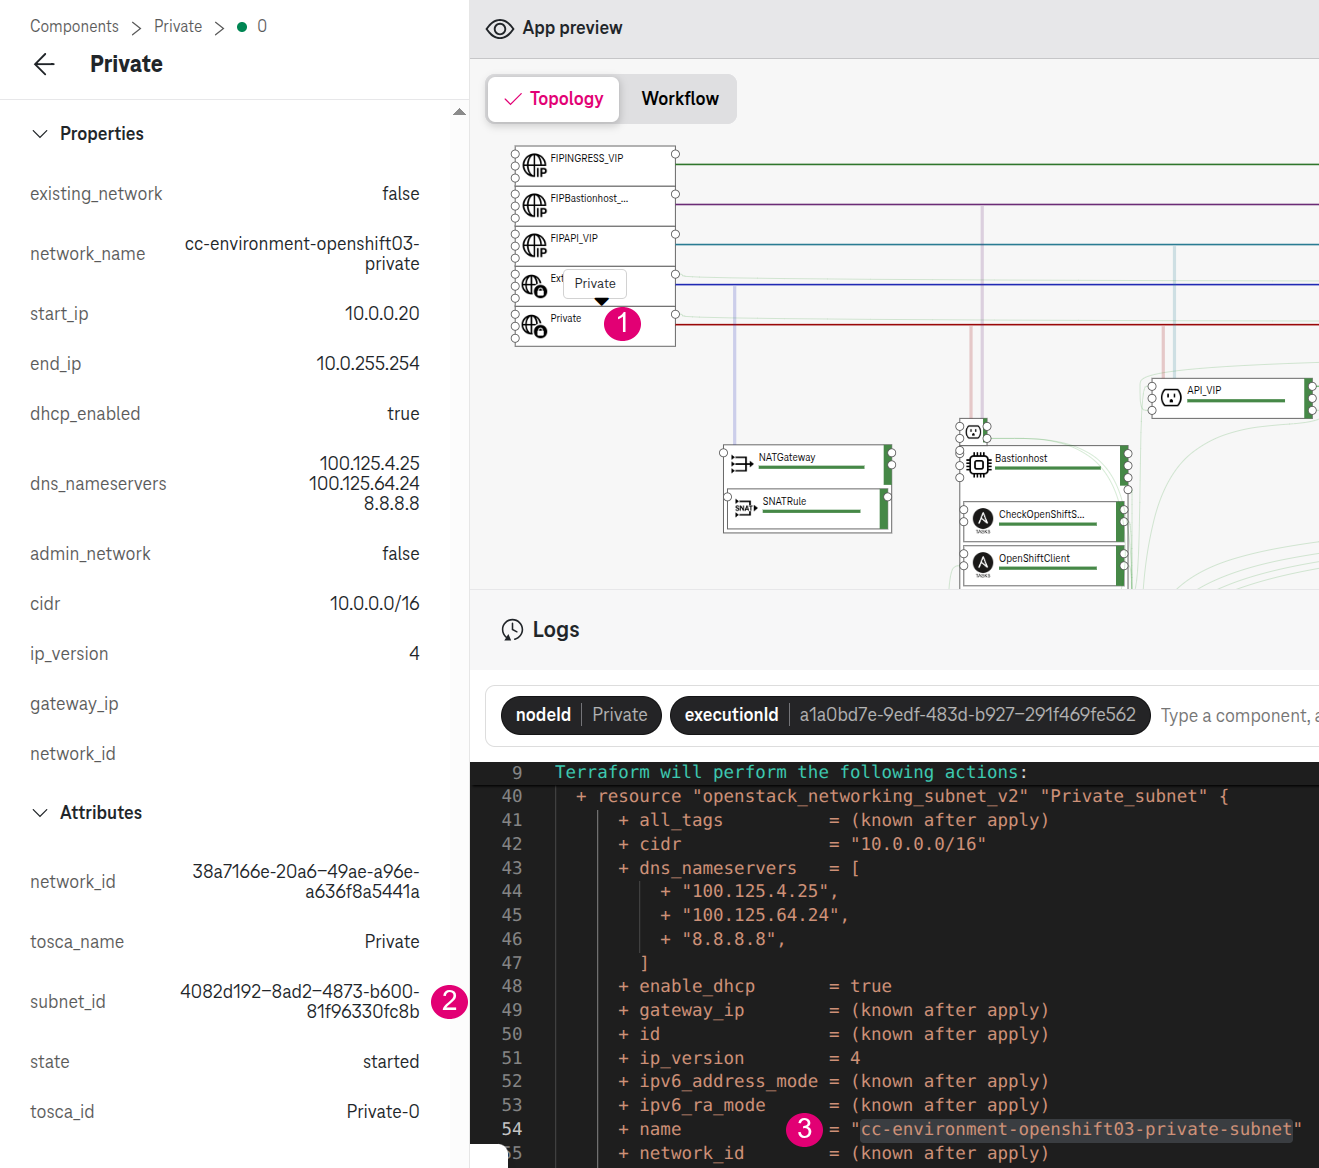
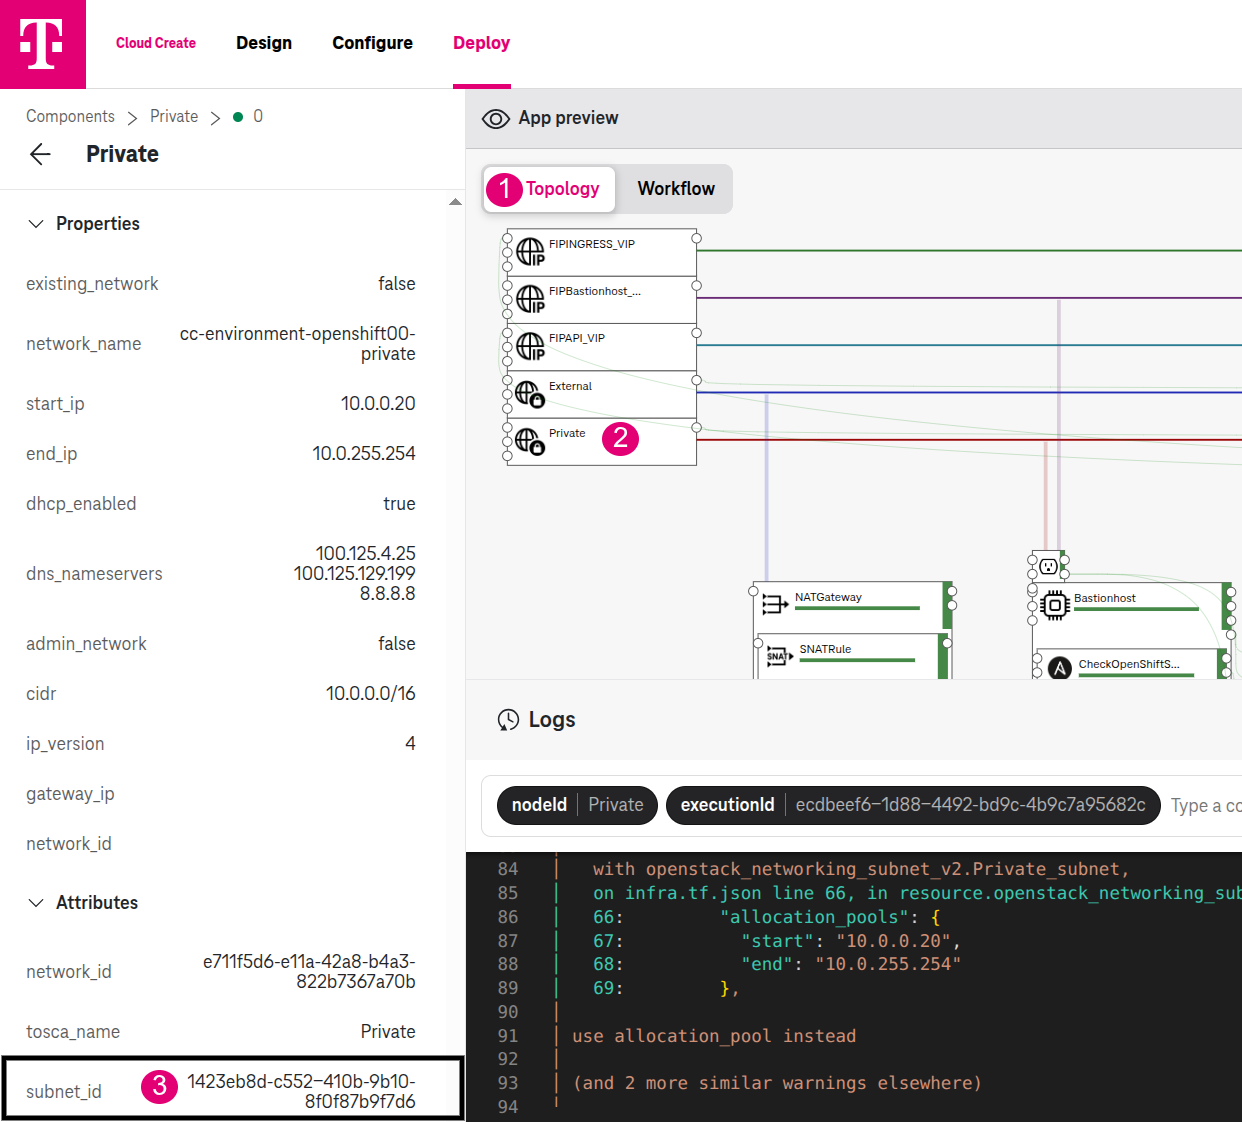
Improve Openshift storage types, machineset, how to update secrets (#57)
Improve Openshift storage types, machineset, how to update secrets

diff --git a/umn/source/service_catalogs/openshift.rst b/umn/source/service_catalogs/openshift.rst
@@ -10,9 +10,9 @@ OpenShift template
 The following tutorial shows you how to register a (trial) subscription key from Red Hat and uses it to create an OpenShift cluster using the OpenShift template.
 
 .. important::
-  * This template deploys a `Self-managed OpenShift Container Platform <https://www.redhat.com/en/technologies/cloud-computing/openshift/container-platform>`_ on Open Telekom Cloud (OTC) with Bring Your Own License (BYOL). It follows the same setup from `the documentation OpenStack User Provisioned Infrastructure <https://docs.redhat.com/en/documentation/openshift_container_platform/4.18/html/installing_on_openstack/installing-openstack-user>`_.
-  * Your license/subscription will cover technical support from Red Hat as well as upgrades between OpenShift versions. `Read more <https://www.redhat.com/en/about/value-of-Red-Hat>`_.
-  * Versions available in the template: :code:`4.16.19` and :code:`4.18.27`. Please contact us if you need a specific version.
+  * This template deploys a `self-managed OpenShift Container Platform <https://www.redhat.com/en/resources/self-managed-openshift-subscription-guide>`_ on Open Telekom Cloud (OTC) with Bring Your Own Subscription (BYOS). OpenShift is installed following the `OpenShift on OpenStack (User-Provisioned Infrastructure) procedure defined by Red Hat <https://docs.redhat.com/en/documentation/openshift_container_platform/4.18/html/installing_on_openstack/installing-openstack-user>`_.
+  * The subscription covers support from Red Hat for the OpenShift product itself (e.g., OpenShift core components, Red Hat Enterprise Linux CoreOS, upgrades/patches within OpenShift) on the `third party infrastructure <https://access.redhat.com/articles/third-party-software-support>`_.
+  * Versions available in the template: :code:`4.16.19` and :code:`4.18.30`. Please contact us if you need a specific version.
 
 2. How to use
 =============
@@ -20,7 +20,7 @@ The following tutorial shows you how to register a (trial) subscription key from
 2.1. How to deploy
 ------------------
 
-1. Create a new application using the template **OpenShift** or **OpenShift HA** with a selected version (e.g., 4.16.19)
+1. Create a new application using the template **OpenShift** or **OpenShift HA** with a selected version (e.g., 4.18.30)
 2. Go to **Quick Deploy**.
 
 .. figure:: /_static/images/service-catalogs/openshift_select_template.png
@@ -34,7 +34,7 @@ The following tutorial shows you how to register a (trial) subscription key from
 a. Specify base_domain
 ^^^^^^^^^^^^^^^^^^^^^^
 
-Specify the **base_domain** (e.g., :code:`tri-test.com`). This is the domain name that you will use to access the OpenShift console after the deployment completes. A DNS Public Zone will be created on OTC with this name. Therefore this domain name **must be unique** in the Domain Name Service of OTC.
+Specify the **base_domain** (e.g., :code:`tri-test.com`). This is the domain name that you will use to access the OpenShift console after the deployment completes. You can specify any domain names you prefer. Your domain name will be registered on the nameservers of OTC. After the deployment completes, you can add the nameservers of OTC on your local machine, then the domain can be resolved (See Section :ref:`access_openshift_console`). Alternatively, you can register a public domain name (e.g., a free domain from ClouDNS) and input it here. In the later case, you do not need to add the nameservers of OTC.
 
 .. figure:: /_static/images/service-catalogs/openshift_config1.png
   :width: 700
@@ -104,6 +104,8 @@ e. (Optional) Specify other paramters
   :width: 700
 
   Figure 7. CheckOpenShiftStatus waits 31 minutes and checks the status
+
+.. _access_openshift_console:
 
 3.1. Access the console
 -----------------------
@@ -189,52 +191,53 @@ During the OpenShift bootstrap process, you can access to the bastion host as fo
 
   # Check all nodes are ready
   $ oc get nodes
-  NAME                        STATUS   ROLES                  AGE    VERSION
-  openshift-k55b9-master-0    Ready    control-plane,master   179m   v1.26.9+636f2be
-  openshift-k55b9-master-1    Ready    control-plane,master   179m   v1.26.9+636f2be
-  openshift-k55b9-master-2    Ready    control-plane,master   179m   v1.26.9+636f2be
-  openshift-k55b9-workers-0   Ready    worker                 163m   v1.26.9+636f2be
-  openshift-k55b9-workers-1   Ready    worker                 163m   v1.26.9+636f2be
+  NAME                             STATUS   ROLES                  AGE    VERSION
+  openshift-k55b9-master-0         Ready    control-plane,master   111m   v1.31.14
+  openshift-k55b9-master-1         Ready    control-plane,master   109m   v1.31.14
+  openshift-k55b9-master-2         Ready    control-plane,master   111m   v1.31.14
+  openshift-k55b9-workers-0        Ready    worker                 92m    v1.31.14
+  openshift-k55b9-workers-1        Ready    worker                 89m    v1.31.14
 
 * Check all cluster operators are available
 
 .. code-block:: bash
 
   $ oc get clusteroperators
-    NAME                                       VERSION   AVAILABLE   PROGRESSING   DEGRADED   SINCE   MESSAGE
-    authentication                             4.13.19   True        False         False      156m
-    baremetal                                  4.13.19   True        False         False      174m
-    cloud-controller-manager                   4.13.19   True        False         False      3h1m
-    cloud-credential                           4.13.19   True        False         False      3h4m
-    cluster-autoscaler                         4.13.19   True        False         False      175m
-    config-operator                            4.13.19   True        False         False      175m
-    console                                    4.13.19   True        False         False      161m
-    control-plane-machine-set                  4.13.19   True        False         False      175m
-    csi-snapshot-controller                    4.13.19   True        False         False      175m
-    dns                                        4.13.19   True        False         False      174m
-    etcd                                       4.13.19   True        False         False      174m
-    image-registry                             4.13.19   True        False         False      163m
-    ingress                                    4.13.19   True        False         False      163m
-    insights                                   4.13.19   True        False         False      168m
-    kube-apiserver                             4.13.19   True        False         False      164m
-    kube-controller-manager                    4.13.19   True        False         False      172m
-    kube-scheduler                             4.13.19   True        False         False      172m
-    kube-storage-version-migrator              4.13.19   True        False         False      164m
-    machine-api                                4.13.19   True        False         False      171m
-    machine-approver                           4.13.19   True        False         False      174m
-    machine-config                             4.13.19   True        False         False      174m
-    marketplace                                4.13.19   True        False         False      174m
-    monitoring                                 4.13.19   True        False         False      162m
-    network                                    4.13.19   True        False         False      177m
-    node-tuning                                4.13.19   True        False         False      174m
-    openshift-apiserver                        4.13.19   True        False         False      165m
-    openshift-controller-manager               4.13.19   True        False         False      174m
-    openshift-samples                          4.13.19   True        False         False      168m
-    operator-lifecycle-manager                 4.13.19   True        False         False      174m
-    operator-lifecycle-manager-catalog         4.13.19   True        False         False      175m
-    operator-lifecycle-manager-packageserver   4.13.19   True        False         False      169m
-    service-ca                                 4.13.19   True        False         False      175m
-    storage                                    4.13.19   True        False         False      170m
+  NAME                                       VERSION   AVAILABLE   PROGRESSING   DEGRADED   SINCE   MESSAGE
+  authentication                             4.18.30   True        False         False      78m
+  baremetal                                  4.18.30   True        False         False      102m
+  cloud-controller-manager                   4.18.30   True        False         False      109m
+  cloud-credential                           4.18.30   True        False         False      111m
+  cluster-autoscaler                         4.18.30   True        False         False      102m
+  config-operator                            4.18.30   True        False         False      103m
+  console                                    4.18.30   True        False         False      84m
+  control-plane-machine-set                  4.18.30   True        False         False      102m
+  csi-snapshot-controller                    4.18.30   True        False         False      103m
+  dns                                        4.18.30   True        False         False      102m
+  etcd                                       4.18.30   True        False         False      101m
+  image-registry                             4.18.30   True        False         False      88m
+  ingress                                    4.18.30   True        False         False      88m
+  insights                                   4.18.30   True        False         False      102m
+  kube-apiserver                             4.18.30   True        False         False      99m
+  kube-controller-manager                    4.18.30   True        False         False      99m
+  kube-scheduler                             4.18.30   True        False         False      99m
+  kube-storage-version-migrator              4.18.30   True        False         False      91m
+  machine-api                                4.18.30   True        False         False      99m
+  machine-approver                           4.18.30   True        False         False      102m
+  machine-config                             4.18.30   True        False         False      102m
+  marketplace                                4.18.30   True        False         False      102m
+  monitoring                                 4.18.30   True        False         False      82m
+  network                                    4.18.30   True        False         False      106m
+  node-tuning                                4.18.30   True        False         False      87m
+  olm                                        4.18.30   True        False         False      93m
+  openshift-apiserver                        4.18.30   True        False         False      93m
+  openshift-controller-manager               4.18.30   True        False         False      91m
+  openshift-samples                          4.18.30   True        False         False      93m
+  operator-lifecycle-manager                 4.18.30   True        False         False      102m
+  operator-lifecycle-manager-catalog         4.18.30   True        False         False      102m
+  operator-lifecycle-manager-packageserver   4.18.30   True        False         False      94m
+  service-ca                                 4.18.30   True        False         False      103m
+  storage                                    4.18.30   True        False         False      91m
 
 4. Post-installation
 ====================
@@ -257,10 +260,10 @@ The **bootstrap** VM is only needed during the installation. After the installat
 
   Figure 13. Go to Web console and delete the VM "bootstrap"
 
-4.2. Maintaining credentials
-----------------------------
+4.2. Update os_password
+-----------------------
 
-On OTC, a user password is expired every 3 months (by default). After it is expired, OpenShift cannot authenticate to OTC to provision volumes so you may get the following error:
+On OTC, an IAM user password is expired every 3 months (by default). After it is expired, OpenShift cannot authenticate to OTC to provision volumes so you may get the following error:
 
 .. code-block:: bash
 
@@ -270,7 +273,12 @@ On OTC, a user password is expired every 3 months (by default). After it is expi
 
 **Solution**
 
-1. Go to the Web Console and update your password on in the Section **Security Settings**.
+1. Go to the Web Console and update the IAM user password under **Security Settings** / **Basic Information** / **Login password**:
+
+.. figure:: /_static/images/service-catalogs/openshift-update-os-password.png
+  :width: 900
+
+  Figure 14. Update password on the Web console
 
 .. tip:: You can increase the password expired time in the Section **Password Policy**.
 
@@ -278,14 +286,15 @@ On OTC, a user password is expired every 3 months (by default). After it is expi
 
 * Go to the OpenShift Console.
 * Go to **Workloads** / **Secrets**.
-* Find and edit the secret **openstack-credentials**.
-* Update the value **password** in both “clouds.conf” and “clouds.yaml”.
+* Find and edit the secret **openstack-credentials** in the **kube-system** namespace.
+* Update the value **password** in 2 files **clouds.conf** and **clouds.yaml**.
 
 .. figure:: /_static/images/service-catalogs/openshift-update-password.png
   :width: 900
 
-  Figure 14. Update the secret openstack-credentials
+  Figure 15. Update the secret openstack-credentials
 
+The Cloud Credential Operator (CCO) will `rotate the secret <https://docs.redhat.com/en/documentation/openshift_container_platform/4.18/html/postinstallation_configuration/changing-cloud-credentials-configuration#manually-rotating-cloud-creds_changing-cloud-credentials-configuration>`_. The component secrets **openstack-cloud-credentials** (in Figure 15) will be eventually overwritten. The rotation may take a few minutes.
 
 5. How to create storages
 =========================
@@ -387,13 +396,13 @@ In OpenShift you can provision an EVS on OTC dynamically:
 
 .. figure:: /_static/images/service-catalogs/openshift_pod.png
 
-  Figure 15. Pod example is running
+  Figure 16. Pod example is running
 
 5. On OTC, see EVS is created:
 
 .. figure:: /_static/images/service-catalogs/openshift_evs.png
 
-  Figure 16. A new EVS is created with the volume type "Ultra High I/O"
+  Figure 17. A new EVS is created with the volume type "Ultra High I/O"
 
 5.2. Scalable File Service & SFS Turbo
 --------------------------------------
@@ -409,20 +418,20 @@ You can create a SFS on OTC manually and create a `PersistentVolume using NFS <h
 .. figure:: /_static/images/service-catalogs/openshift_sfs.png
   :width: 900
 
-  Figure 17. Create SFS via webconsole
+  Figure 18. Create SFS via webconsole
 
 2. After SFS is created successfully, it is assigned with a new security group having all necessary ports opened to :code:`0.0.0.0/0` (by default). Then you can limit the access to SFS from the OpenShift worker nodes by setting the **source** security group to :code:`sg-worker`:
 
 .. figure:: /_static/images/service-catalogs/openshift_sfs_security_group.png
   :width: 900
 
-  Figure 18. Security group of SFS
+  Figure 19. Security group of SFS
 
 3. Copy the SFS endpoint
 
 .. figure:: /_static/images/service-catalogs/openshift_sfs2.png
 
-  Figure 19. Copy the SFS endpoint :code:`10.0.207.136`
+  Figure 20. Copy the SFS endpoint :code:`10.0.207.136`
 
 4. Create a PersistentVolume (e.g., :code:`sfs-pv`) with the SFS endpoint:
 
@@ -472,24 +481,24 @@ You can use the MachineSet API from OpenShift to spawn worker nodes on OTC as fo
 
 .. important::
 
-  The `REST API of OTC to create a network port <https://docs.otc.t-systems.com/virtual-private-cloud/api-ref/native_openstack_neutron_apis_v2.0/port/creating_a_port.html>`_ is not fully compliant with the OpenStack API. Therefore, the Machine API of OpenShift fails to create network ports on OTC. Follow the instructions below to apply the patch `cluster-api-provider-openstack:4.18-patched <https://github.com/opentelekomcloud-blueprints/machine-api-provider-openstack/tree/4.18-patched>`_ so that the Machine API can work with the REST API of OTC. When the compliant issues are fixed, this patch is not necessary.
+  The `REST API of OTC to create a network port <https://docs.otc.t-systems.com/virtual-private-cloud/api-ref/native_openstack_neutron_apis_v2.0/port/creating_a_port.html>`_ is not fully compliant with the OpenStack API. Therefore, the Machine API of OpenShift fails to create network ports on OTC. Follow the **steps below** to apply the `patch <https://github.com/opentelekomcloud-blueprints/machine-api-provider-openstack/tree/4.18-patched>`_ so that the Machine API can work with the REST API of OTC. When the compliant issues are fixed, this patch is not necessary.
 
 .. code-block:: bash
 
-    # Pause the CVO to stop it from overwriting
+    # 1. Pause the CVO to stop it from overwriting
     $ oc scale deploy cluster-version-operator -n openshift-cluster-version --replicas=0
 
-    # Edit the configmap machine-api-operator-images
+    # 2. Edit the configmap machine-api-operator-images
     $ oc edit configmap/machine-api-operator-images -n openshift-machine-api
     # Replace:
     "clusterAPIControllerOpenStack": "quay.io/openshift-release-dev/ocp-v4.0-art-dev@sha256:8df78826ffbf29ea291cde12a4eb81b8d63103ddb15b01c5af55d22e80448989",
     # With:
     "clusterAPIControllerOpenStack": "swr.eu-de.otc.t-systems.com/cloud-create/machine-api-provider-openstack@sha256:60a7811b80265a731d45bdf47c5492398ddc6ef4da02aad6c2a7f67ab66e4247",
 
-    # Update the machine-controller to use our patched image
+    # 3. Update the machine-controller to use our patched image
     $ oc -n openshift-machine-api set image deployment/machine-api-controllers machine-controller=swr.eu-de.otc.t-systems.com/cloud-create/machine-api-provider-openstack@sha256:60a7811b80265a731d45bdf47c5492398ddc6ef4da02aad6c2a7f67ab66e4247
 
-    # Wait a few minutes for the machine-controller to start
+    # 4. Wait a few minutes for the machine-controller to start
     $ oc logs -n openshift-machine-api deployment/machine-api-controllers -c machine-controller
     I1125 16:31:36.679739       1 controller.go:215] "msg"="Starting workers" "controller"="machine-controller" "worker count"=1
 
@@ -501,14 +510,14 @@ You can use the MachineSet API from OpenShift to spawn worker nodes on OTC as fo
 .. figure:: /_static/images/service-catalogs/openshift_machinset1.png
   :width: 600
 
-  Figure 20. Copy cluster_os_image and infra_id
+  Figure 21. Copy cluster_os_image and infra_id
 
-2. Click on the **Private** network and copy the subnet_name (e.g., :code:`cc-environment-openshift03-private-subnet`).
+2. Click on the **Private** network and copy the **subnet_id** (e.g., :code:`1423eb8d-c552-410b-9b10-8f0f87b9f7d6`). This is the subnet of the worker nodes.
 
 .. figure:: /_static/images/service-catalogs/openshift_machinset2.png
   :width: 600
 
-  Figure 21. Copy subnet_name
+  Figure 22. Copy subnet_id
 
 3. Create the file :code:`machineset-example-eu-de-01.yaml` with the copied values:
 
@@ -519,7 +528,7 @@ You can use the MachineSet API from OpenShift to spawn worker nodes on OTC as fo
     kind: MachineSet
     metadata:
       labels:
-        machine.openshift.io/cluster-api-cluster: openshift-vts4p # <infra_id>
+        machine.openshift.io/cluster-api-cluster: openshift-vts4p # <infra_id>, see Figure 21 above
         machine.openshift.io/cluster-api-machine-role: worker # <role>
         machine.openshift.io/cluster-api-machine-type: worker # <role>
       name: openshift-vts4p-worker # <infra_id>-<role>
@@ -552,10 +561,10 @@ You can use the MachineSet API from OpenShift to spawn worker nodes on OTC as fo
               - filter: {}
                 subnets:
                 - filter:
-                    name: cc-environment-openshift03-private-subnet # <subnet_name>
+                    id: 1423eb8d-c552-410b-9b10-8f0f87b9f7d6 # <subnet_id>, see Figure 22 above
               rootVolume:
                 diskSize: 120 # minimum 100
-                sourceUUID: rhcos-418.94.202501221327-0-openstack.x86_64 # <cluster_os_image>
+                sourceUUID: rhcos-418.94.202501221327-0-openstack.x86_64 # <cluster_os_image>, see Figure 21 above
                 volumeType: SSD
               securityGroups:
               - filter: {}

diff --git a/doc/source/index.rst b/doc/source/index.rst
@@ -1,10 +1,12 @@
 Cloud Create
 ============
 
+Cloud Create offers a powerful visual designer with ready-to-use templates so you can ship full-stack apps 10 times faster with fewer experts. It enables you to go from idea to design and deployment in minutes, instead of weeks or months.
+
 .. directive_wrapper::
    :class: container-sbv
 
    .. service_card::
       :service_type: cc
-      :umn: Cloud Create provides cloud developers a development and management platform to create applications on multi-cloud fast. 
-      :api-ref: This is the API documentation to Cloud Create
+      :umn: How to use the visual designer to deploy apps from ready-to-use templates.
+      :api-ref: This is the API documentation of Cloud Create.
